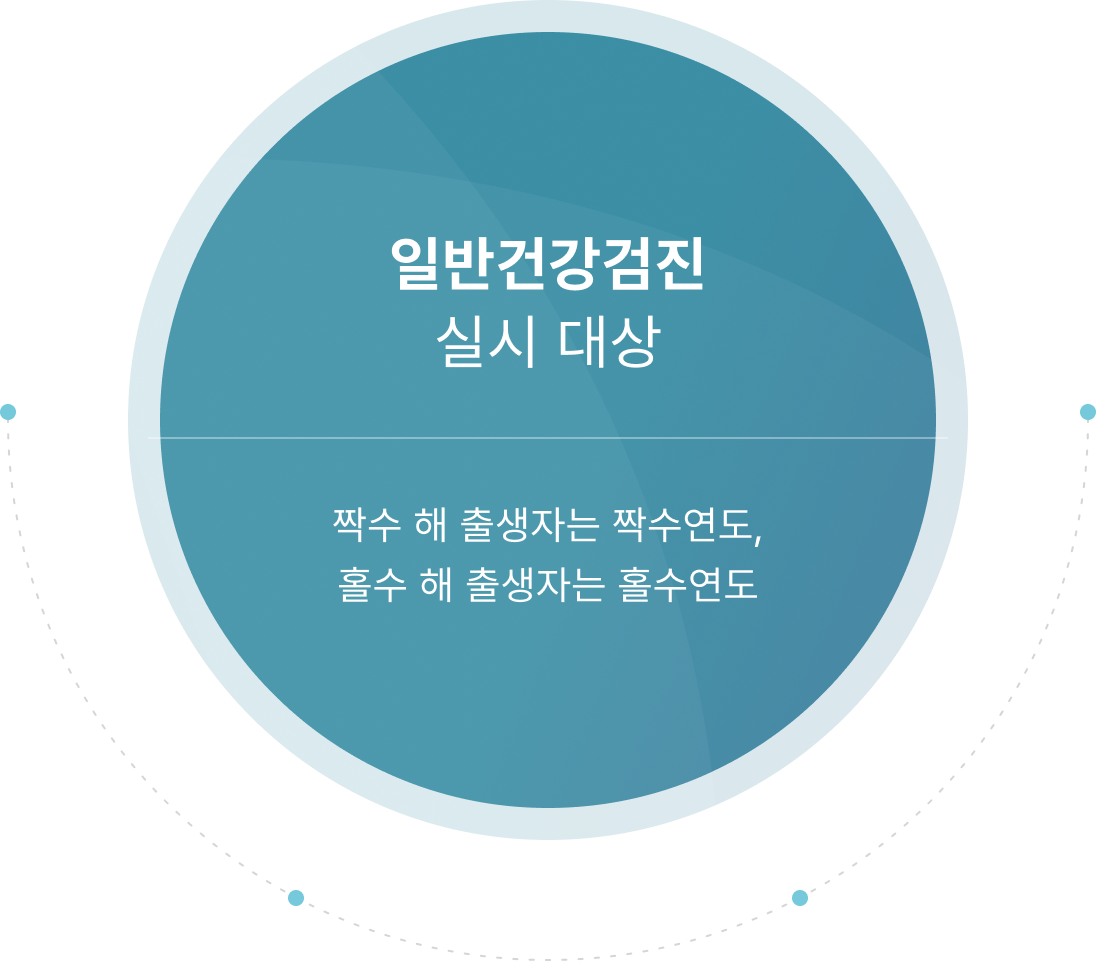
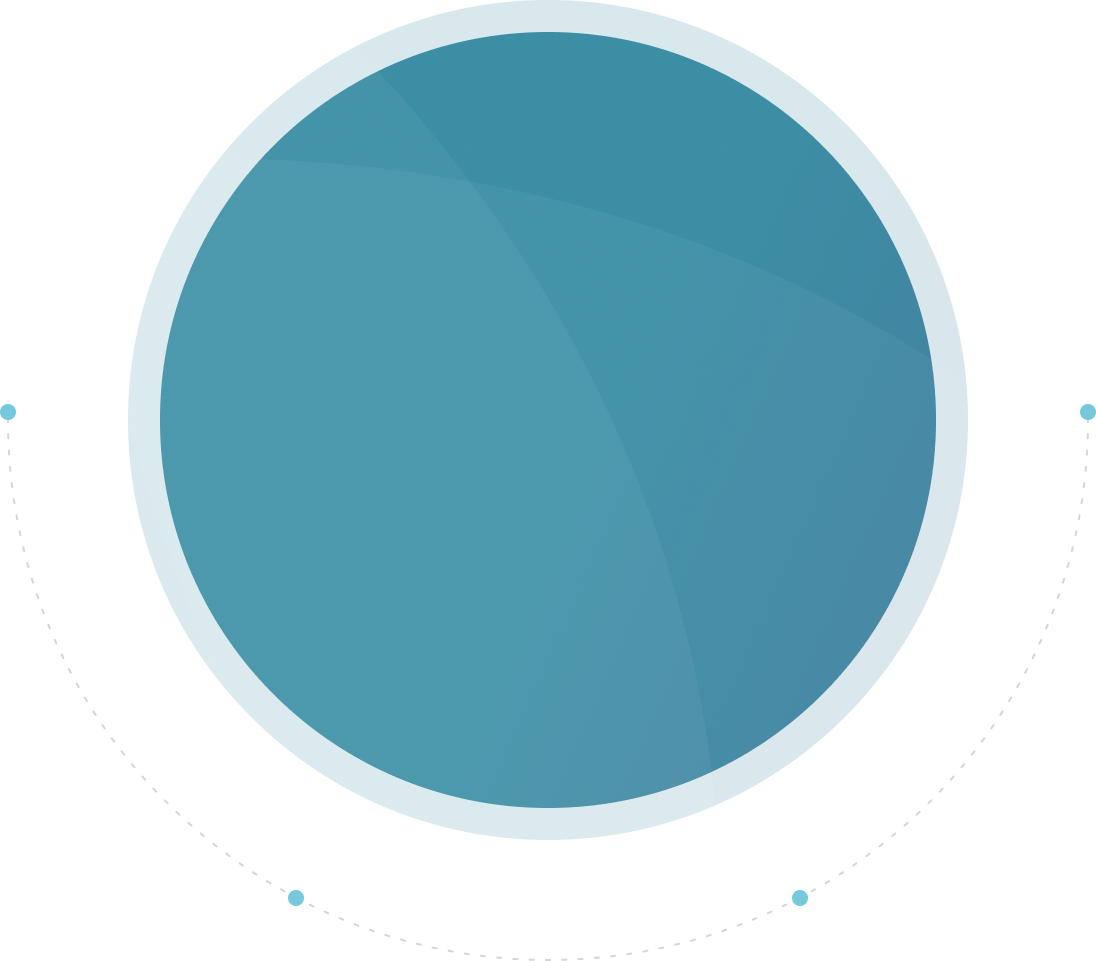
[퍼블직접반영] 국문 > 이미지 부분 html로 변경2

Changed region(s): [[0.3412, 0.2497, 0.6515, 0.4058], [0.3102, 0.5931, 0.6825, 0.6243], [0.3102, 0.5307, 0.6825, 0.5619]]

diff --git a/static/css/style.css b/static/css/style.css
@@ -6246,11 +6246,60 @@ a.common-btnType-4 {
   width: 100%;
   max-width: 222px;
   margin: 0 auto;
+  position: relative;
 }
 .tab-labSpecial .tit-posi .center-img img {
   width: 100%;
   height: 100%;
   object-fit: cover;
+}
+.tab-labSpecial .tit-posi .center-img .text-box {
+  width: 100%;
+  position: absolute;
+  top: 50%;
+  left: 50%;
+  transform: translate(-50%, -50%);
+  text-align: center;
+}
+.tab-labSpecial .tit-posi .center-img .text-box .tit {
+  color: var(--Primary-05, #FFF);
+  font-size: 18px;
+  font-weight: 400;
+  line-height: 130%;
+  letter-spacing: 0.36px;
+  padding-bottom: 12px;
+  position: relative;
+}
+.tab-labSpecial .tit-posi .center-img .text-box .tit span {
+  color: var(--Primary-05, #FFF);
+  font-size: 20px;
+  font-weight: 700;
+  line-height: 130%;
+  letter-spacing: 0.4px;
+}
+.tab-labSpecial .tit-posi .center-img .text-box .tit::after {
+  content: "";
+  width: 150px;
+  height: 1px;
+  background: #fff;
+  position: absolute;
+  bottom: 6px;
+  left: 50%;
+  transform: translateX(-50%);
+}
+.tab-labSpecial .tit-posi .center-img .text-box .txt {
+  color: var(--Primary-05, #FFF);
+  font-size: 12px;
+  font-weight: 400;
+  line-height: 150%;
+  letter-spacing: 0.24px;
+}
+.tab-labSpecial .tit-posi .center-img .text-box .txt span {
+  color: var(--Primary-05, #FFF);
+  font-size: 12px;
+  font-weight: 700;
+  line-height: 150%;
+  letter-spacing: 0.24px;
 }
 .tab-labSpecial .tit-posi .tit-item {
   width: 100px;
@@ -15300,6 +15349,12 @@ a.common-btnType-4 {
   .tab-labSpecial {
     margin-bottom: -120px;
   }
+  .tab-labSpecial .center-img .pc-show {
+    display: none;
+  }
+  .tab-labSpecial .center-img .mo-show {
+    display: block;
+  }
   .tab-labSpecial .table-bg {
     padding: 0 100px;
   }
@@ -18626,6 +18681,37 @@ a.common-btnType-4 {
   }
   .tab-labSpecial .tit-posi .center-img {
     max-width: 540px;
+  }
+  .tab-labSpecial .tit-posi .center-img .pc-show {
+    display: block;
+  }
+  .tab-labSpecial .tit-posi .center-img .mo-show {
+    display: none;
+  }
+  .tab-labSpecial .tit-posi .center-img .text-box {
+    transform: translate(-50%, -59%);
+  }
+  .tab-labSpecial .tit-posi .center-img .text-box .tit {
+    font-size: 30px;
+    letter-spacing: 0.6px;
+    padding-bottom: 57px;
+  }
+  .tab-labSpecial .tit-posi .center-img .text-box .tit span {
+    font-size: 30px;
+    letter-spacing: 0.6px;
+  }
+  .tab-labSpecial .tit-posi .center-img .text-box .tit::after {
+    width: 400px;
+    bottom: 28px;
+    opacity: 0.36;
+  }
+  .tab-labSpecial .tit-posi .center-img .text-box .txt {
+    font-size: 20px;
+    letter-spacing: 0.4px;
+  }
+  .tab-labSpecial .tit-posi .center-img .text-box .txt span {
+    font-size: 20px;
+    letter-spacing: 0.4px;
   }
   .tab-labSpecial .tit-posi .tit-item .icon {
     width: 220px;

diff --git a/static/scss/style.scss b/static/scss/style.scss
@@ -6923,10 +6923,59 @@ a {
 			width: 100%;
 			max-width: 222px;
 			margin: 0 auto;
+			position: relative;
 			img {
 				width: 100%;
 				height: 100%;
 				object-fit: cover;
+			}
+			.text-box {
+				width: 100%;
+				position: absolute;
+				top: 50%;
+				left: 50%;
+				transform: translate(-50%, -50%);
+				text-align: center;
+				.tit {
+					color: var(--Primary-05, #FFF);
+					font-size: 18px;
+					font-weight: 400;
+					line-height: 130%;
+					letter-spacing: 0.36px;
+					padding-bottom: 12px;
+					position: relative;
+					span {
+						color: var(--Primary-05, #FFF);
+						font-size: 20px;
+						font-weight: 700;
+						line-height: 130%;
+						letter-spacing: 0.4px;
+					}
+					&::after {
+						content: '';
+						width: 150px;
+						height: 1px;
+						background: #fff;
+						position: absolute;
+						bottom: 6px;
+						left: 50%;
+						transform: translateX(-50%);
+					}
+				}
+				.txt {
+					color: var(--Primary-05, #FFF);
+					font-size: 12px;
+					font-weight: 400;
+					line-height: 150%;
+					letter-spacing: 0.24px;
+					span {
+						color: var(--Primary-05, #FFF);
+						font-size: 12px;
+						font-weight: 700;
+						line-height: 150%;
+						letter-spacing: 0.24px;
+					}
+				}
 			}
 		}
 		.tit-item {
@@ -17368,6 +17417,14 @@ a {
 	}
 	.tab-labSpecial {
 		margin-bottom: -120px;
+		.center-img {
+			.pc-show {
+				display: none;
+			}
+			.mo-show {
+				display: block;
+			}
+		}
 		.table-bg {
 			padding: 0 100px;
 			.box-common-tabTableSwiper {
@@ -21445,6 +21502,37 @@ a {
 			margin-bottom: 120px;
 			.center-img {
 				max-width: 540px;
+				.pc-show {
+					display: block;
+				}
+				.mo-show {
+					display: none;
+				}
+				.text-box {
+					transform: translate(-50%, -59%);
+					.tit {
+						font-size: 30px;
+						letter-spacing: 0.6px;
+						padding-bottom: 57px;
+						span {
+							font-size: 30px;
+							letter-spacing: 0.6px;
+						}
+						&::after {
+							width: 400px;
+							bottom: 28px;
+							opacity: 0.36;
+						}
+					}
+					.txt {
+						font-size: 20px;
+						letter-spacing: 0.4px;
+						span {
+							font-size: 20px;
+							letter-spacing: 0.4px;
+						}
+					}
+				}
 			}
 			.tit-item {
 				.icon {

diff --git a/ko/A_1_3.html b/ko/A_1_3.html
@@ -84,6 +84,10 @@
                 <div class="center-img">
                   <img src="../static/images/img/laboratory_special_tit.png" alt="" class="pc-show">
                   <img src="../static/images/img/laboratory_special_tit_mo.png" alt="" class="mo-show">
+                  <div class="text-box">
+                    <p class="tit"><span>특수건강진단</span><br>실시 대상</p>
+                    <p class="txt">직업성 질환의 발생 원인이 되는 <br><span>유해인자에 노출되는 <br>업무에 종사하는 근로자</span></p>
+                  </div>
                 </div>
                 <div class="tit-item it-1">
                   <div class="icon">
@@ -479,6 +483,10 @@
                 <div class="center-img">
                   <img src="../static/images/img/laboratory_national_tit.png" alt="" class="pc-show">
                   <img src="../static/images/img/laboratory_national_tit_mo.png" alt="" class="mo-show">
+                  <div class="text-box">
+                    <p class="tit"><span>일반건강검진</span><br>실시 대상</p>
+                    <p class="txt">짝수 해 출생자는 짝수연도, <br>홀수 해 출생자는 홀수연도</p>
+                  </div>
                 </div>
                 <div class="tit-item it-1">
                   <div class="icon">
